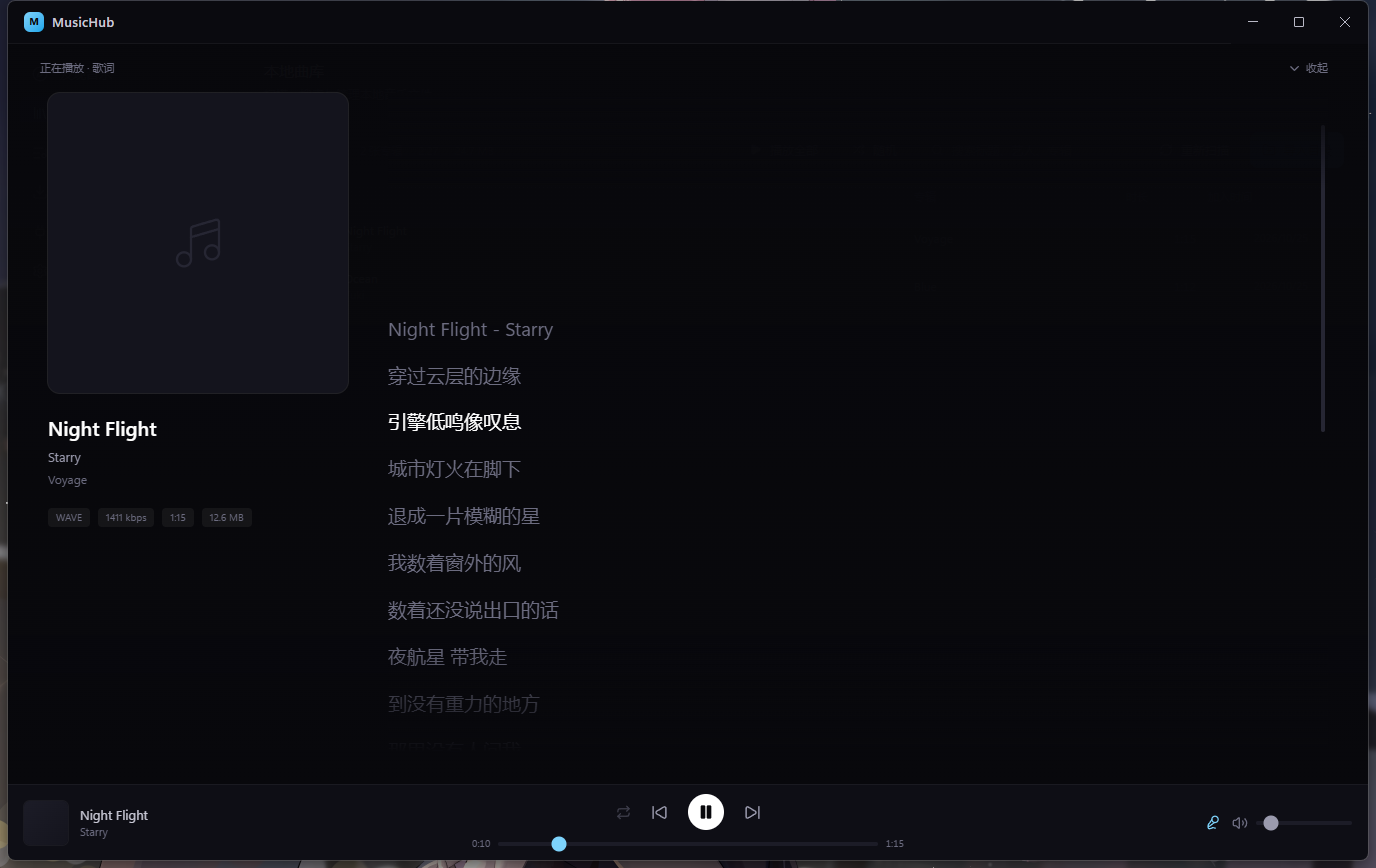
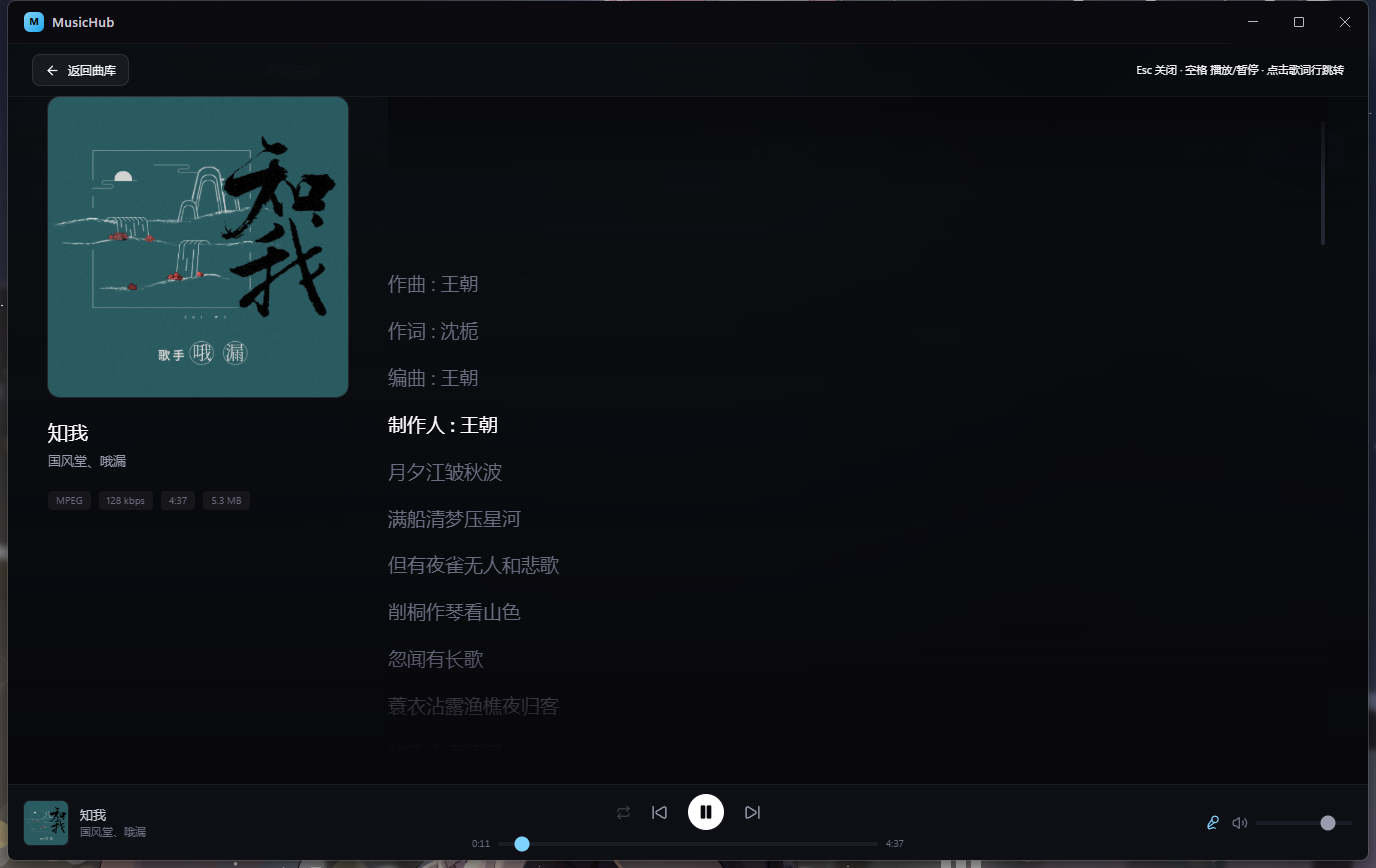
fix(lyrics): 解析器版本化重建索引、lrc 编码自动识别(GBK/UTF16)、返回按钮更明确

diff --git a/src/main/library/scanner.ts b/src/main/library/scanner.ts
@@ -88,14 +88,51 @@ function embeddedLyricToLrc(lyrics: readonly unknown[] | undefined): string | nu
   return plain && plain.length > 0 ? plain : null
 }
 
-function readSidecarLyric(filePath: string): string | null {
-  const lrcPath = filePath.slice(0, filePath.length - extname(filePath).length) + '.lrc'
-  try {
-    if (fs.existsSync(lrcPath)) return fs.readFileSync(lrcPath, 'utf-8')
-  } catch {
-    /* 忽略 */
+/** 解析器版本：逻辑变更时 +1，旧库会在下次扫描时强制重新解析 */
+export const PARSER_VERSION = 2
+
+/** 歌词文件常见 UTF-8(BOM) / GBK，UTF-8 解不出来时回退 GB18030 */
+function decodeText(buffer: Buffer): string {
+  if (buffer.length >= 3 && buffer[0] === 0xef && buffer[1] === 0xbb && buffer[2] === 0xbf) {
+    return buffer.subarray(3).toString('utf8')
   }
-  return null
+  if (buffer.length >= 2 && buffer[0] === 0xff && buffer[1] === 0xfe) {
+    return buffer.subarray(2).toString('utf16le')
+  }
+  const utf8 = buffer.toString('utf8')
+  if (utf8.includes('\uFFFD')) {
+    try {
+      return new TextDecoder('gb18030').decode(buffer)
+    } catch {
+      return utf8
+    }
+  }
+  return utf8
+}
+
+function lrcPathFor(filePath: string): string {
+  return filePath.slice(0, filePath.length - extname(filePath).length) + '.lrc'
+}
+
+/** 侧车歌词的修改时间，用来判断歌词是否需要重解析 */
+function sidecarMtime(filePath: string): number | null {
+  try {
+    const lrcPath = lrcPathFor(filePath)
+    if (!fs.existsSync(lrcPath)) return null
+    return Math.floor(fs.statSync(lrcPath).mtimeMs)
+  } catch {
+    return null
+  }
+}
+
+function readSidecarLyric(filePath: string): string | null {
+  try {
+    const lrcPath = lrcPathFor(filePath)
+    if (!fs.existsSync(lrcPath)) return null
+    return decodeText(fs.readFileSync(lrcPath))
+  } catch {
+    return null
+  }
 }
 
 async function parseOne(filePath: string, stat: fs.Stats): Promise<UpsertTrackInput> {
@@ -120,7 +157,8 @@ async function parseOne(filePath: string, stat: fs.Stats): Promise<UpsertTrackIn
     size: stat.size,
     mtime: Math.floor(stat.mtimeMs),
     coverPath: null,
-    lyric: readSidecarLyric(filePath)
+    lyric: readSidecarLyric(filePath),
+    lyricMtime: sidecarMtime(filePath)
   }
 
   try {
@@ -154,7 +192,8 @@ async function parseOne(filePath: string, stat: fs.Stats): Promise<UpsertTrackIn
       sampleRate: format.sampleRate ?? null,
       channels: format.numberOfChannels ?? null,
       coverPath: coverPath ?? null,
-      lyric: base.lyric ?? embeddedLyricToLrc(common.lyrics)
+      lyric: base.lyric ?? embeddedLyricToLrc(common.lyrics),
+      lyricMtime: base.lyricMtime
     }
   } catch {
     // 解析失败也要入库，避免文件被反复重试
@@ -166,6 +205,8 @@ export interface ScanOptions {
   onProgress: (progress: ScanProgress) => void
   /** 扫描结束后删除磁盘上已不存在的记录 */
   prune?: boolean
+  /** 忽略缓存，对所有文件重新解析（解析器升级后使用） */
+  forceReparse?: boolean
 }
 
 export async function scanDirectories(roots: string[], options: ScanOptions): Promise<ScanProgress> {
@@ -216,8 +257,16 @@ export async function scanDirectories(roots: string[], options: ScanOptions): Pr
         const stat = await fs.promises.stat(file)
         const mtime = Math.floor(stat.mtimeMs)
         const cached = existing.get(file)
+        const lrcMtime = sidecarMtime(file)
 
-        if (cached && cached.mtime === mtime && cached.size === stat.size) {
+        const cacheHit =
+          cached &&
+          !options.forceReparse &&
+          cached.mtime === mtime &&
+          cached.size === stat.size &&
+          (cached.lyricMtime ?? null) === lrcMtime
+
+        if (cacheHit) {
           progress.skipped += 1
         } else {
           const parsed = await parseOne(file, stat)

diff --git a/src/renderer/src/components/LyricsView.tsx b/src/renderer/src/components/LyricsView.tsx
@@ -1,6 +1,6 @@
 import type { JSX } from 'react'
 import { useEffect, useMemo, useRef, useState } from 'react'
-import { ChevronDown, Music4 } from 'lucide-react'
+import { ArrowLeft, Music4, RefreshCw } from 'lucide-react'
 import type { Track } from '@shared/types'
 import { findActiveLine, parseLrc, type LyricLine } from '../lib/lrc'
 import { formatBytes, formatDuration } from '../lib/format'
@@ -115,16 +115,16 @@ export function LyricsView(): JSX.Element | null {
         <div className="absolute inset-0 bg-gradient-to-b from-ink-950/70 via-ink-950/85 to-ink-950" />
       </div>
       <div className="relative flex h-full flex-col">
-        <header className="flex items-center justify-between px-8 py-3 text-[11px] text-ink-400">
-          <span>正在播放 · 歌词</span>
+        <header className="flex items-center justify-between border-b border-white/5 px-6 py-2.5">
           <button
             onClick={closeLyrics}
-            className="flex items-center gap-1 rounded-md px-2 py-1 transition-colors hover:bg-white/10 hover:text-ink-100"
+            className="flex items-center gap-2 rounded-lg border border-white/10 bg-white/5 px-3 py-1.5 text-[12px] text-ink-100 transition-colors hover:border-white/25 hover:bg-white/12 hover:text-white"
             title="返回曲库（Esc）"
           >
-            <ChevronDown size={15} />
-            收起
+            <ArrowLeft size={15} />
+            返回曲库
           </button>
+          <span className="text-[11px] text-ink-500">Esc 关闭 · 空格 播放/暂停 · 点击歌词行跳转</span>
         </header>
         <div className="flex min-h-0 flex-1 gap-10 px-10 pb-8">
           <div className="flex w-[300px] shrink-0 flex-col gap-5">
@@ -177,9 +177,17 @@ export function LyricsView(): JSX.Element | null {
                   <div className="flex h-[40vh] flex-col items-center justify-center gap-2 text-center">
                     <Music4 size={22} className="text-ink-600" />
                     <p className="text-[13px] text-ink-400">这首歌还没有歌词</p>
-                    <p className="max-w-[360px] text-[12px] leading-relaxed text-ink-500">
-                      把同名 .lrc 文件放到音频旁边后重新扫描；标签里的内嵌歌词会在扫描时自动读取。
+                    <p className="max-w-[380px] text-[12px] leading-relaxed text-ink-500">
+                      在音频旁放同名 .lrc（支持 UTF-8 / GBK），或确认歌曲标签里带内嵌歌词，
+                      然后回到曲库点「重新扫描」。
                     </p>
+                    <button
+                      onClick={closeLyrics}
+                      className="mt-2 flex items-center gap-1.5 rounded-lg border border-white/10 px-3 py-1.5 text-[12px] text-ink-300 transition-colors hover:bg-white/5 hover:text-ink-100"
+                    >
+                      <RefreshCw size={12} />
+                      返回曲库重新扫描
+                    </button>
                   </div>
                 ) : (
                   parsed.lines.map((line, index) => {

diff --git a/src/main/library/repository.ts b/src/main/library/repository.ts
@@ -87,15 +87,31 @@ export interface ExistingTrack {
   id: string
   mtime: number | null
   size: number | null
+  lyricMtime: number | null
 }
 
 export function loadExistingByPath(): Map<string, ExistingTrack> {
   const rows = getDb()
-    .prepare("SELECT id, path, file_mtime, size FROM tracks WHERE kind = 'local' AND path IS NOT NULL")
-    .all() as { id: string; path: string; file_mtime: number | null; size: number | null }[]
+    .prepare(
+      "SELECT id, path, file_mtime, size, lyric_mtime FROM tracks WHERE kind = 'local' AND path IS NOT NULL"
+    )
+    .all() as {
+    id: string
+    path: string
+    file_mtime: number | null
+    size: number | null
+    lyric_mtime: number | null
+  }[]
 
   const map = new Map<string, ExistingTrack>()
-  for (const row of rows) map.set(row.path, { id: row.id, mtime: row.file_mtime, size: row.size })
+  for (const row of rows) {
+    map.set(row.path, {
+      id: row.id,
+      mtime: row.file_mtime,
+      size: row.size,
+      lyricMtime: row.lyric_mtime
+    })
+  }
   return map
 }
 
@@ -119,16 +135,17 @@ export interface UpsertTrackInput {
   mtime: number | null
   coverPath: string | null
   lyric: string | null
+  lyricMtime: number | null
 }
 
 const UPSERT_SQL = `
 INSERT INTO tracks (
   id, kind, title, artist, album, album_artist, duration_ms, track_no, disc_no, year, genre,
-  path, format, bitrate, sample_rate, channels, size, file_mtime, cover_path, lyric,
+  path, format, bitrate, sample_rate, channels, size, file_mtime, cover_path, lyric, lyric_mtime,
   created_at, updated_at
 ) VALUES (
   @id, 'local', @title, @artist, @album, @albumArtist, @durationMs, @trackNo, @discNo, @year, @genre,
-  @path, @format, @bitrate, @sampleRate, @channels, @size, @mtime, @coverPath, @lyric,
+  @path, @format, @bitrate, @sampleRate, @channels, @size, @mtime, @coverPath, @lyric, @lyricMtime,
   @now, @now
 )
 ON CONFLICT(path) DO UPDATE SET
@@ -149,6 +166,7 @@ ON CONFLICT(path) DO UPDATE SET
   file_mtime = excluded.file_mtime,
   cover_path = COALESCE(excluded.cover_path, tracks.cover_path),
   lyric = COALESCE(excluded.lyric, tracks.lyric),
+  lyric_mtime = excluded.lyric_mtime,
   updated_at = excluded.updated_at
 `
 

diff --git a/src/main/library/index.ts b/src/main/library/index.ts
@@ -1,5 +1,5 @@
 import type { ScanProgress } from '@shared/types'
-import { getLibraryRoots, setLibraryRoots } from '../settings'
+import { getLibraryRoots, getSetting, setLibraryRoots, setSetting } from '../settings'
 import {
   deleteTracks,
   getLibraryStats,
@@ -8,7 +8,7 @@ import {
   listTracks,
   setFavorite
 } from './repository'
-import { scanDirectories } from './scanner'
+import { PARSER_VERSION, scanDirectories } from './scanner'
 
 type ProgressSink = (progress: ScanProgress) => void
 
@@ -54,9 +54,14 @@ export async function scanLibrary(): Promise<ScanProgress> {
   scanning = true
   let lastEmit = 0
 
+  // 解析逻辑升级后，旧索引需要全量重建（否则缓存会一直跳过）
+  const storedVersion = getSetting<number>('scanner.parserVersion', 0)
+  const forceReparse = storedVersion !== PARSER_VERSION
+
   try {
-    return await scanDirectories(roots, {
+    const result = await scanDirectories(roots, {
       prune: true,
+      forceReparse,
       onProgress: (progress) => {
         const now = Date.now()
         if (now - lastEmit > 90 || progress.phase !== 'parsing') {
@@ -65,6 +70,8 @@ export async function scanLibrary(): Promise<ScanProgress> {
         }
       }
     })
+    setSetting('scanner.parserVersion', PARSER_VERSION)
+    return result
   } catch (error) {
     const failed = idleProgress()
     failed.phase = 'error'

diff --git a/src/main/db/migrations.ts b/src/main/db/migrations.ts
@@ -100,5 +100,10 @@ export const migrations: string[] = [
   -- v3: path 改为普通唯一索引（部分索引无法被 ON CONFLICT(path) 命中）
   DROP INDEX IF EXISTS ux_track_path;
   CREATE UNIQUE INDEX IF NOT EXISTS ux_track_path ON tracks(path);
+  `,
+
+  `
+  -- v4: 记录侧车歌词文件时间，用于判断歌词是否需要重解析
+  ALTER TABLE tracks ADD COLUMN lyric_mtime INTEGER;
   `
 ]

diff --git a/README.md b/README.md
@@ -34,6 +34,8 @@
 - 点击任意歌词行跳转到对应时间点（预览态下会先开始播放）
 - 支持 `[mm:ss.xx]`、一行多时间标签、`[offset:]` 校正；无时间轴则按纯文本显示
 - 歌词来源：同名 `.lrc` 文件优先，其次读标签内嵌歌词（扫描时写入数据库）
+- `.lrc` 编码自动识别：UTF-8（含 BOM）、UTF-16LE、GBK/GB18030
+- 解析器版本升级后，下次「重新扫描」会自动全量重建索引（跳过缓存），无需手动删库
 - `Esc` 收起，`Space` 播放/暂停
 
 ## 状态持久化
